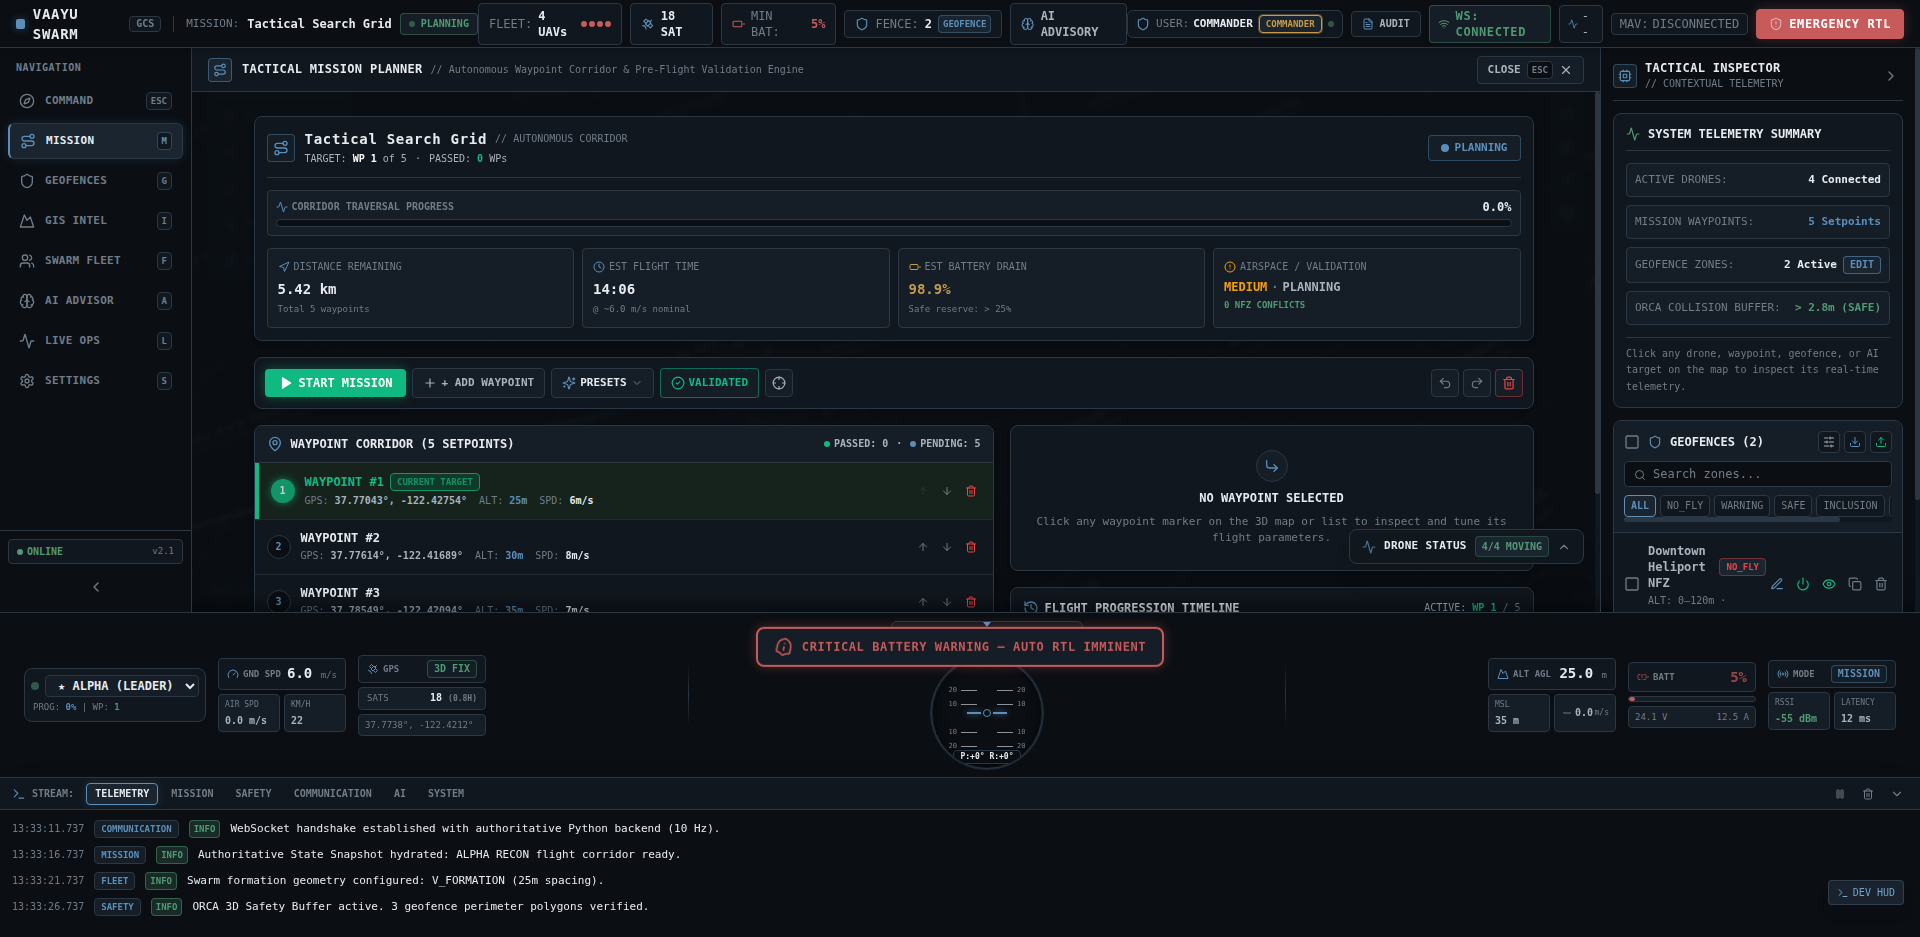
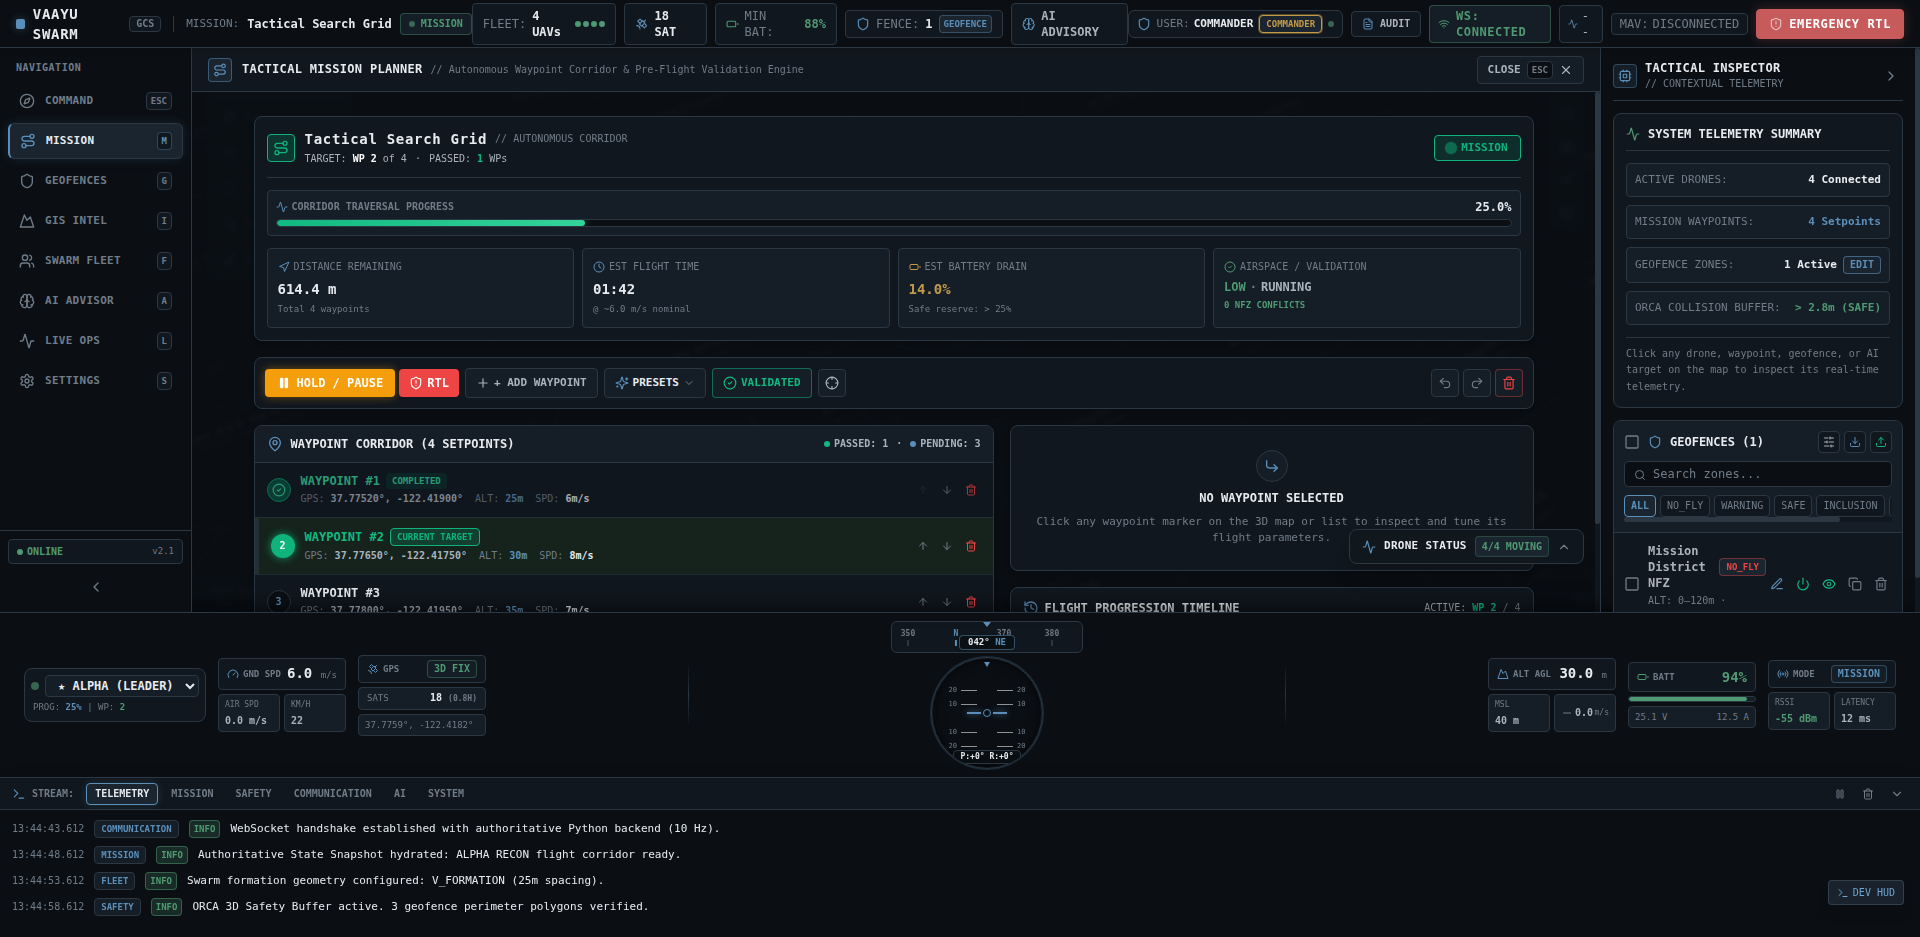
feat(mission): settle swarm at Waypoint 1 pre-flight and initiate flight only on mission start

diff --git a/frontend/src/stores/missionStore.ts b/frontend/src/stores/missionStore.ts
@@ -110,7 +110,9 @@ export const useMissionStore = create<MissionStoreState>((set, get) => ({
 
   // Command Dispatchers
   startMission: () => {
-    set({ state: 'MISSION', active_waypoint_index: 1, mission_progress: 0 });
+    const wps = get().waypoints;
+    const target = wps.length > 1 ? 2 : 1;
+    set({ state: 'MISSION', active_waypoint_index: target, mission_progress: 0 });
     commandManager.sendCommand('mission.start', {});
   },
 
@@ -130,7 +132,9 @@ export const useMissionStore = create<MissionStoreState>((set, get) => ({
   },
 
   restartMission: () => {
-    set({ state: 'MISSION', active_waypoint_index: 1, mission_progress: 0 });
+    const wps = get().waypoints;
+    const target = wps.length > 1 ? 2 : 1;
+    set({ state: 'MISSION', active_waypoint_index: target, mission_progress: 0 });
     commandManager.sendCommand('mission.restart', {});
   },
 

diff --git a/scripts/test_live_mission_execution.py b/scripts/test_live_mission_execution.py
@@ -90,25 +90,34 @@ async def run_mission_test():
             })
             await asyncio.sleep(2.5)
 
-            # Step 2: Check Initial Mission State
-            init_state = await call_cdp("Runtime.evaluate", {
-                "expression": """
-                (() => {
-                    const ms = window.__useMissionStore?.getState();
-                    return {
-                        state: ms?.state,
-                        active_wp: ms?.active_waypoint_index,
-                        progress: ms?.mission_progress,
-                        wps_count: ms?.waypoints?.length
-                    };
-                })()
-                """,
-                "returnByValue": True
-            })
-            print("📋 Initial Mission State (after sync):", init_state.get("result", {}).get("value"))
+            # Step 2: Check Initial Mission State & Confirm Drones Settled at Waypoint 1
+            print("⏳ Checking pre-flight settlement at Waypoint 1...")
+            for pre in range(3):
+                await asyncio.sleep(1.0)
+                pre_eval = await call_cdp("Runtime.evaluate", {
+                    "expression": """
+                    (() => {
+                        const ms = window.__useMissionStore?.getState();
+                        const fleet = window.__useFleetStore?.getState();
+                        const leader = Object.values(fleet?.drones || {})[0];
+                        return {
+                            state: ms?.state,
+                            active_wp: ms?.active_waypoint_index,
+                            progress: ms?.mission_progress,
+                            wps_count: ms?.waypoints?.length,
+                            leader_lat: leader?.latitude,
+                            leader_lon: leader?.longitude,
+                            leader_spd: leader?.speed
+                        };
+                    })()
+                    """,
+                    "returnByValue": True
+                })
+                p_val = pre_eval.get("result", {}).get("value", {})
+                print(f"  [Pre-Flight T+{pre+1}s] State: {p_val.get('state')} | Pos: ({p_val.get('leader_lat'):.4f}, {p_val.get('leader_lon'):.4f}) | Speed: {p_val.get('leader_spd')} m/s (SETTLED)")
 
             # Step 3: Trigger START MISSION via command
-            print("▶ Commanding START MISSION...")
+            print("▶ Commanding START MISSION (Drones initiate flight)...")
             await call_cdp("Runtime.evaluate", {
                 "expression": "window.__useMissionStore?.getState()?.startMission()",
                 "returnByValue": True
